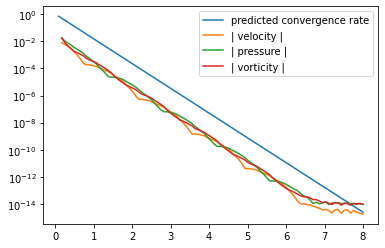
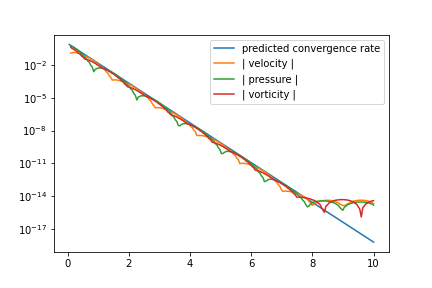
updating...

diff --git a/main.tex b/main.tex
@@ -16,7 +16,7 @@
 
 \author{Haiyang Wang, Nils Jan Fredrik Fryklund, Samuel Potter, Leslie Greengard}
 \date{\today}
-\title{A Fast Solver for Stokes Flow in 2D: [this is a bad title]}
+\title{A Fast Solver for Stokes Flow in 2D: [we need a better title]}
 
 \begin{document}
 
@@ -49,7 +49,7 @@
   the physics constraints of  zero-net-flux and continuity of pressure. 
   These constraints can be written as a full rank linear system of rank $O(n)$,
   where $n$ is the number of standard pieces. Thus, connecting the local solvers 
-  would have time complexity of $O(n^2)$. 
+  would have time complexity of $O(n^3)$. 
   This is much faster than solving the global problem directly. 
   For example, in Figure \ref{fig:connection-error}, interfacing the local solutions took only 0.3 seconds, while directly
   solving on the global domain took 24 minutes. 
@@ -60,12 +60,12 @@
   \includegraphics[width=\textwidth]{pic/connection-error-rough.png}
   \caption{Solutions of the Stokes equation in a complex channel geometry as a union of 22 standard pieces
     with Dirichlet Boundary conditions, 
-    and the difference between connected local solution with the global solution. 
+    and the numerical error of the connected solution compare to the global solution. 
     The first sub-figure is a color-plot of magnitude of velocity field inside the 
     domain, with colorbar on its right. The black lines in the 
-    first sub-figure marks the boundary of each standard pieces. 
+    first sub-figure marks the boundary of each standard piece. 
     The other three sub-figures is color plot of absolute differences 
-    between the connected solutions and a global solution in terms of pressure, 
+    between the connected solution and a global solution in terms of pressure, 
     vorticity, and velocity field in the $log_{10}$ scale. Each standard pieces are solved
     with required accuracy of $10^{-12}$ and the global domain is solved with 
     required accuracy of $10^{-10}$.}
@@ -96,22 +96,27 @@ to reduce the time and space complexity of solving the BIE. \cite{Flatironinstit
 Directly evaluating the BIE's solution near the boundary could be numerically unstable as the integral is nearly-singular.
 Thus, we have adopted the methods from 
 \cite{wuSolutionStokesFlow2020,helsingEvaluationLayerPotentials2008} 
-to for accurate evaluation of layer potentials near the boundary. 
+for accurate evaluation of layer potentials near the boundary. 
 
 Interfacing the local solutions of each standard pieces is by 
 simply solving a system of linear equations, 
 based on the constraints of zero-net-flux and continuity of pressure. 
-This linear equation depends merely on the flux and pressure at the
-point of connection of standard pieces.  
+This linear equation depends on the flux and pressure at the
+point of connection of standard pieces. And thus, interfacing can be done instantly and accurately. 
 
 This paper is organized as follows. In Section \ref{mathprelim}, we define the Stokes boundary value problem, 
 the corresponding biharmonic boundary value problem, and then the integral equation of it. 
-We also mention the analytic evidence for the \textit{return to Poiseuille} hypothesis. 
+We also mention the analytic evidence and predicted exponential convergence rate for the \textit{return to Poiseuille} hypothesis in a long straight channel. 
 In Section \ref{sec:numericalmethod}, we presents the Nystr\"om discretization
-of the integral equation. 
+of the integral equation, which is solved iteratively by Generalized Minimal Residual Method (GMRES). It also contains a description of the interface constraints of zero-net-flux and continuity of pressure, and points to the reference of
+other techniques we have adopted in this paper: 
+accurate evaluation of nearly singular integral, 
+GMRES with removed nullspace, 
+the O'Neil scheme to smooth corners of the geometry,
+and the biharmonic FMM. 
 The numerical experiments of connecting standard pieces and numerical evidence for \textit{return to Poiseuille}
 hypothesis are contained in Section \ref{sec:numericalresults}, 
-followed by conclusions in Section \ref{sec:conclusions}.
+followed by conclusions and possible future research ideas  in Section \ref{sec:conclusions}.
 
 \section{Mathematical Preliminaries\label{mathprelim}}
 
@@ -123,7 +128,7 @@ used it as a numerical hypothesis in this paper.
 
 \subsection{Boundary Integral Equation}
 
-\paragraph{Stokes Boundary Value Problem}
+\paragraph{Stokes Boundary Value Problem.}
 
 The plane linear Stokes equations are
 \begin{align}
@@ -138,7 +143,7 @@ $\nu$ is the viscosity,
 and $p$ is the pressure. 
 Another important physics quantity, vorticity, is defined as $\zeta  = u_y - v_x$. 
 
-We are interested in Dirichlet boundary value problem of Stokes equation on 
+We are interested in Dirichlet boundary value problem (BVP) of Stokes equation on 
 a bounded $(M+1)$-ply connected domain $D\subset \mathbb R^2$,
 with boundary $\partial D =  \Gamma = \Gamma_0 \cup \Gamma_1 \cup \cdots \cup \Gamma_M$, 
 where $\Gamma_0$ is the exterior boundary, and $\Gamma_1,\cdots, \Gamma_M$ are the interior boundaries. 
@@ -147,7 +152,9 @@ On the boundary $\Gamma$, the velocity is defined by given functions $h_1,h_2$:
   u = h_2(t),\quad v = - h_1(t), \quad t\in \Gamma
   \label{bdr-velocity}
 \end{align}
-
+For the specific purpose of this paper, 
+the boundary velocity profile is zero everywhere except at the inlets/outlets
+of channels, where a Poiseuille velocity profile is specified. 
 
 \paragraph*{Biharmonic Equation.} $(\ref{continuity})$ implies the existence of the stream function $W(x,y)$ such that:
 \begin{align}
@@ -155,8 +162,8 @@ On the boundary $\Gamma$, the velocity is defined by given functions $h_1,h_2$:
 \end{align}
 
 Following (\ref{stokes},\ref{continuity}), it is easy to see that the stream function satisfies the biharmonic equation (\ref{biharmonic}),
-and the Dirichlet boundary condition of velocity ($\ref{bdr-velocity}$) can be understood as 
-the boundary conditions for the biharmonic equation (\ref{bih-bv}):
+and the Dirichlet BVP ($\ref{bdr-velocity}$) can be understood as 
+the following biharmonic BVP:
 \begin{align}
   &\Delta^2 W(x,y) = \Delta \zeta = 0, &(x,y)\in D \label{biharmonic}\\
   &\pdv{W}{x}(t) = h_1(t),\quad \pdv{W}{y}(t) = h_2(t), \quad &t\in \Gamma\label{bih-bv}
@@ -167,8 +174,8 @@ the boundary conditions for the biharmonic equation (\ref{bih-bv}):
 \begin{align}
   W(x,y) = \Re (\bar z \phi(z) + \chi (z)) \label{Goursat}
 \end{align}
-where $\phi, \chi$ are referred to as the Goursat's functions, and are analytic functions of complex variable $z = x+yi$.
-In the following, we will be identifying $(x,y) \in \mathbb{R}^2$ with $x + yi$. 
+where the Goursat's functions $\phi, \chi$ are analytic functions of complex variable $z = x+yi$.
+In the following, we will be identifying $(x,y) \in \mathbb{R}^2$ with $x + yi \in \mathbb{C}$. 
 
 Velocity, pressure, and vorticity can be conveniently expressed with the Goursat's functions. 
 The Muskhelishvili's formula \eqref{muskhelishvili} 
@@ -185,26 +192,27 @@ using the Muskhelishvili's formula (\ref{muskhelishvili}), can be rewritten as
 \begin{align}
   \phi(t) + t\overline{\phi'(t)} + \overline{\psi(t)} 
   = h(t), \quad
-  t \in \Gamma
+  t \in \Gamma \label{musk-bvp}
 \end{align} where $h(t) =  h_1(t) + ih_2(t)$,  and $t$ is understood as a complex variable. 
 
-\paragraph*{Sherman-Lauricella Representation.} The boundary integral equation is an ansatz 
-based on of an extension of Sherman-Lauricella representation for Stokes equation 
-proposed in \cite{greengardIntegralEquationMethods1996}. 
+\paragraph*{Sherman-Lauricella Representation.} 
+The Sherman-Lauricella Representation proposes a specific form of the Goursat's functions. And one can use this representation as an ansatz for BIE of the Biharmonic BVP \eqref{musk-bvp}
+\cite{greengardIntegralEquationMethods1996}. 
 It is formulated as follows:
 \begin{align}
   \phi(z) &=
     \frac {1}{2\pi i} \int_\Gamma \frac{\omega(\xi)}{\xi - z} d\xi  
-    + \sum_{k=1}^M C_k \log (z-z_k)
+    + \sum_{k=1}^M C_k \log (z-z_k) \label{sl-phi}
     \\
   \psi(z) &=
     \frac {1}{2\pi i} \int_\Gamma \frac{\overline{\omega(\xi)}d\xi +  \omega(\xi)\overline{d\xi}}{\xi - z}  
-    - \frac {1}{2\pi i} \int_\Gamma \frac{\overline{\xi} \omega(\xi)}{(\xi - z)^2} d\xi  
+    - \frac {1}{2\pi i} \int_\Gamma \frac{\overline{\xi} \omega(\xi)}{(\xi - z)^2} d\xi  \label{sl-psi}
     \\
     & \quad + \sum _{k=1}^M 
     \left( \frac{b_k}{z-z_k} + \overline C_k \log (z-z_k) -  C_k \frac{\overline z_k}{z-z_k} \right) \nonumber 
 \end{align}
-where $\omega$ is an unknown complex density on $\Gamma$ to be solved for, 
+where $\omega$ is an unknown complex density on $\Gamma$ to be solved 
+for with the given $h$, 
 $z_k$ are arbitrarily prescribed point inside the component curves $\Gamma_k$, 
 and $C_k, b_k$ are constants defined by 
 \begin{align}
@@ -212,9 +220,10 @@ and $C_k, b_k$ are constants defined by
 \end{align}
 
 \paragraph*{Boundary Integral Equation.} 
-Letting a point $z$ in the interior of $D$ approach to a point on the boundary $t\in \Gamma$, 
+Plugging the Sherman-Lauricella representation (\ref{sl-phi},\ref{sl-psi}) into equation (\ref{musk-bvp}), 
+and letting a point $z$ in the interior of $D$ approach to a point on the boundary $t\in \Gamma$ in \eqref{musk-bvp}, 
 the classical formulae for the limiting values of Cauchy-type integral 
-gives us the an integral equation for $\omega$ \cite{muschelisviliSingularIntegralEquations1972,greengardIntegralEquationMethods1996} :
+gives us the following integral equation for $\omega$ \cite{muschelisviliSingularIntegralEquations1972,greengardIntegralEquationMethods1996}:
 \begin{align}
   \omega(t) 
   &+ \frac 1{2\pi i} \int_{\Gamma} \omega(\xi) d\ln \frac{\xi - t}{\overline{\xi - t}} - \frac 1{2\pi i} \int_\Gamma \overline{\omega(\xi)} d \frac{\xi - t}{\overline{\xi - t}} \label{bie} \\
@@ -222,9 +231,9 @@ gives us the an integral equation for $\omega$ \cite{muschelisviliSingularIntegr
   &+ \frac{\overline b_0}{\bar t - \bar z^*} \nonumber \\
   &= h(t) \nonumber
 \end{align}
-the extra term $\frac{\overline b_0}{\bar t - \bar z^*}$ vanishes when the zero-net-flux condition $\Re \int_\Gamma \bar h(t) dt = 0$ is satisfied. 
+the extra term $\frac{\overline b_0}{\bar t - \bar z^*}$ vanishes when the zero-net-flux condition $\Re \int_\Gamma \bar h(t) dt = 0$ is satisfied, hence will be omitted in the Nystr\"om discretization of \eqref{bie} . 
 The invertibility of this integral equation is similar 
-to the standard proof of invertibility for elasticity problems \cite{muskhelishviliBasicProblemsMathematical1977}, hence omitted.
+to the standard proof of invertibility for elasticity problems \cite{muskhelishviliBasicProblemsMathematical1977}, and are omitted.
 
 \subsection{Return to Poiseuille\label{sec:ret2poi}} 
 
@@ -243,23 +252,23 @@ On the domain of a semi-infinite pipe $D_L = \{(x,y)\mid x \ge 0, |y| \le L\}$, 
 where $\Gamma_L^2,\Gamma_L^3$ are walls with the non-slippery boundary conditions, 
 and $\Gamma_L^1$ is the inlet with boundary condition of an
 incoming laminar incompressible flow. 
-Return to Poiseuille means that regardless of the boundary conditions on $\Gamma_L^1$,
-the flow's profile at $x = l$ will converge Poiseuille flow as $l$ approaches to infinity. 
+\textit{Return to Poiseuille} means that regardless of the boundary velocity profile on $\Gamma_L^1$,
+the flow's profile at $x = l$ will converge Poiseuille flow as $l\to\infty$. 
 
-Without lost of generality, assuming there is zero net flux across $\Gamma_L^1$,
-return to Poiseuille is equivalent to return to zero flow. The equation for this BVP
+Without lost of generality, assume there is zero net flux across $\Gamma_L^1$. 
+Then, \textit{return to Poiseuille} is equivalent to return to zero flow, i.e. the flows velocity profile at $x=l$ would converge to zero at an exponential decay rate as $l\to\infty$. The equation for this BVP
 is the following:
 \begin{align}
   &\pdv{W(x,y)}{y}  = W(x,y) = 0,  &(x,y) &\in \Gamma_L^2 \cup \Gamma_L^3 \\
   &\pdv{W(0,y)}{x}  = f(y),\ \pdv{W(0,y)}{y} = g(y), &(0,y) &\in \Gamma_L^1  \label{eq:velocity-condition-at-inlet}
 \end{align}
-where $f,g$ satisfy $f(\pm L) = g(\pm L) = \int_{-L}^L g(y)dy = 0$. 
+where $f,g$ satisfy $f(\pm L) = g(\pm L) = \int_{-L}^L g(y)dy = 0$ so that the boundary condition is continuous and the net-flux is zero. 
 
 This biharmonic BVP is identical to the "self-equilibrated" traction BVP in the theory of elasticity studied in
 \cite{gregoryTractionBoundaryValue1980,horganDECAYESTIMATESBIHARMONIC1989,coRecentDevelopmentsConcerning1983}. 
 When $f''',g'''$ exist and are of bounded variation, 
 this problem has a unique solution spanned by the Papkovich-Fadle eigenfunctions \cite{gregoryTractionBoundaryValue1980}.
-The first eigenfunction is dominated by $e^{-xk/2L}$, where 
+The absolute value of first eigenfunction is dominated by $e^{-xk/2L}$, where 
 \begin{align*}
   k \simeq 4.2 
 \end{align*}
@@ -269,31 +278,26 @@ This gives the decay rate of return to Poiseuille hypothesis,
 which agrees with our numerical experiment in Figure \ref{fig:r2pnumerical}. 
 % TODO
 
-\paragraph*{Application of Return to Poiseuille.}
-TODO
-Given the analytic bound, it is easy to see
+\paragraph{Return to Poiseuille as a Numerical Hypothesis}
+Given the analytic estimate, it is easy to see
 that in a straight channel with length greater than 8 times of the channel width, we can expect the 
-flow to be Poiseuille up to 14th digits accuracy. Therefore, it is appropriate to require the inlets/outlets of
-the standard pieces to be such straight channels, and then assign the Poiseuille boundary conditions on them. 
+flow to be Poiseuille with 14th digits of accuracy at the outlets regardless of the velocity profile on the inlets. Therefore, it is appropriate to require the inlets/outlets of
+the standard pieces to be such straight channels, 
+and then assign the Poiseuille boundary conditions on the inlets/outlets. 
 
-The straight channels outlets would have two corners of right angle, making the geometry non-smooth. Such piecewise 
-smooth geometry can be handled as in \cite{wuSolutionStokesFlow2020} with panel refinement near the corners. 
-Here, we choose a different approach to avoid handling corners by adding superficial caps to the outlets. 
-[this paragraph needs more elaboration and some figures perhaps]. 
-
+When two standard pieces are connected and their solutions are interfaced, 
+as in Figure \ref{fig:connection-error}, at the point of the connection the flow profile is indeed Poiseuille with high order accuracy. It is particularly worth-noting that no significant numerical error can be observed at the point of connection in the $\log_{10}$ scale. 
 
 \section{Description of Numerical Methods\label{sec:numericalmethod}}
-In this section, we will first present Nystr\"om discretization of boundary integral equation (\ref{bie}), 
-and then we briefly explain the discretization of the boundary, near boundary evaluation of layer potential, 
-and the system of linear equations for pipe connections.  
+In this section, we will first present Nystr\"om discretization of boundary integral equation (\ref{bie}). Then we will describe the interface conditions. Lastly, we briefly explain the discretization and smoothing of the boundary, accurate near boundary evaluation of layer potential, GMRES with nullspace removed. 
 
-\subsection{Boundary Integral equation}
+\subsection{Boundary Integral Equation}
 
 The boundary curve $\Gamma_k$ is given by the parametrization $\Gamma_k = \{ t^k(a): a\in \left[A_k,A_{k+1}\right]\}$, 
 and discretized into $N_k$ points $t^k_i = t^k(a^k_i)$. 
 Associate to each point $t^k_j$ are the unknown complex density $\omega^k_j$, 
 the derivative $d^k_j = t^{k\prime}(a^k_j)$, 
-and the quadrature weight $w^k_j$. In total, we have $N= \sum_{k=0}^M N_k$ points. Nystr\"om discretization of (\ref{bie}) is
+and the quadrature weight $w^k_j$. In total, we have $N= \sum_{k=0}^M N_k$ points. The Nystr\"om discretization of BIE (\ref{bie}) is:
 \begin{align}
   \omega_j^k 
   + \sum_{m=0}^{M}\sum_{n=1}^{N_k} K_1(t^k_j,t^m_n) \omega^k_j 
@@ -302,28 +306,37 @@ and the quadrature weight $w^k_j$. In total, we have $N= \sum_{k=0}^M N_k$ point
 \end{align} where $h^k_j = h(t^k_j)$ and the kernels $K_1, K_2$ are given by 
 \begin{align}
   K_1(t^k_j, t^m_n) 
-  &= \frac{1}{\pi} \Im (\frac{d^m_n}{t^m_n-t^k_j})w^m_n + K_1^s(t^k_j,t^m_n)\\
+  &= \frac{w^m_n}{\pi} \Im (\frac{d^m_n}{t^m_n-t^k_j}) + K_1^s(t^k_j,t^m_n)\\
   K_2(t^k_j, t^m_n) 
-  &= \frac{1}{\pi} \frac{\Im((t^m_n-t^k_j)\overline{d^m_n})}{(\overline{t^m_n - t^k_j})^2} w^m_n + K_2^s(t^k_j,t^m_n)
+  &= \frac{w^m_n}{\pi} \frac{\Im((t^m_n-t^k_j)\overline{d^m_n})}{(\overline{t^m_n - t^k_j)^2}}  + K_2^s(t^k_j,t^m_n)
 \end{align}
-with $K_1^s, K_2^s$ being: 
+with $K_1^s, K_2^s$ representing the singular sources are: 
 \begin{align}
   K_1^s(t^k_j,t^m_n) &= \delta_m w^m_n \left(\frac{i\overline{d^m_n}}{\overline{t^k_j - z_m}}
   + 2 \log |t^k_j - z_m| \right)\\
-  K_2^s(t^k_j,t^m_n) &= \delta_{m}w^m_n \left(- \frac{id^m_n}{\overline{t^k_j - z_m}} + \frac{t^k_j-z_m}{\overline{t^k_j - z_m}}\right) 
+  K_2^s(t^k_j,t^m_n) &= \delta_{m}w^m_n \frac{t^k_j-z_m-id^m_n}{\overline{t^k_j - z_m}}
 \end{align}
-where $\delta_m = 1$ excepts for $\delta_0 = 0$. In the limiting case of $t^k_j = t^m_n$, the corresponding value can be seen as the limiting value:
+where $\delta_m = 1$ excepts for $\delta_0 = 0$. In the limiting case of $t^k_j = t^m_n$, the value of $K_1,K_2$ are:
 \begin{align}
   K_1(t^k_j, t^k_j) &= \frac{w^k_j \kappa^k_j|d^k_j|}{2\pi} + K_1^s(t^k_j,t^k_j) \\
   K_2(t^k_j, t^k_j) &= -\frac{w^k_j\kappa^k_j(d^k_j)^2}{2\pi|d^k_j|} + K_2^s(t^k_j,t^k_j)
-\end{align}where $\kappa^k_j$ is the signed quadrature at the point $t^k_j$. 
+\end{align}where $\kappa^k_j$ is the signed curvature at the point $t^k_j$. 
 
-The left hand side (LHS) of (\ref{nystrom}) for any density $\omega$ is evaluated by a biharmonic fmm 
-\cite{FlatironinstituteFmm2d2022}. 
-And this Nystr\"om discretization is regarded as an matrix equation, 
-by separating the real part and imaginary part, 
-and then solved iteratively using 
-generalized minimum residual method GMRES \cite{saadGMRESGeneralizedMinimal1986}. 
+The Nystr\"om discretizetion \eqref{nystrom} can be written more compactly as the following matrix equation:
+\begin{align}
+    \omega + K_1\omega + K_2\overline{\omega} = h \label{nys-mateq}
+\end{align}
+This equation is separated into real and imaginary parts, and iteratively solved by the GMRES \cite{saadGMRESGeneralizedMinimal1986}. 
+For each GMRES iteration, evaluating the left hand side of \eqref{nys-mateq} 
+is required, and evaluating by a dense matrix-vector product would require space and time complexity of $O(N^2)$. Too expensive when $N$ is large. Therefore, we used a biharmonic fmm provided by the Flatiron Institute instead, which would only have time and space complexity of $O(N)$ \cite{FlatironinstituteFmm2d2022}. 
+
+The matrix equation \eqref{nys-mateq} 
+obeys the zero-net-flux condition, 
+therefore only has solution when $\Re \int_\Gamma \overline{h(t)} dt = 0$. 
+This also means that \eqref{nys-mateq} has rank deficiency, which might cause GMRES converging slowly. 
+This issue can be avoided by adding a double layer term 
+
+
 
 Evaluation of the layer potentials near boundary is done as in \cite{wuSolutionStokesFlow2020}. 
 
